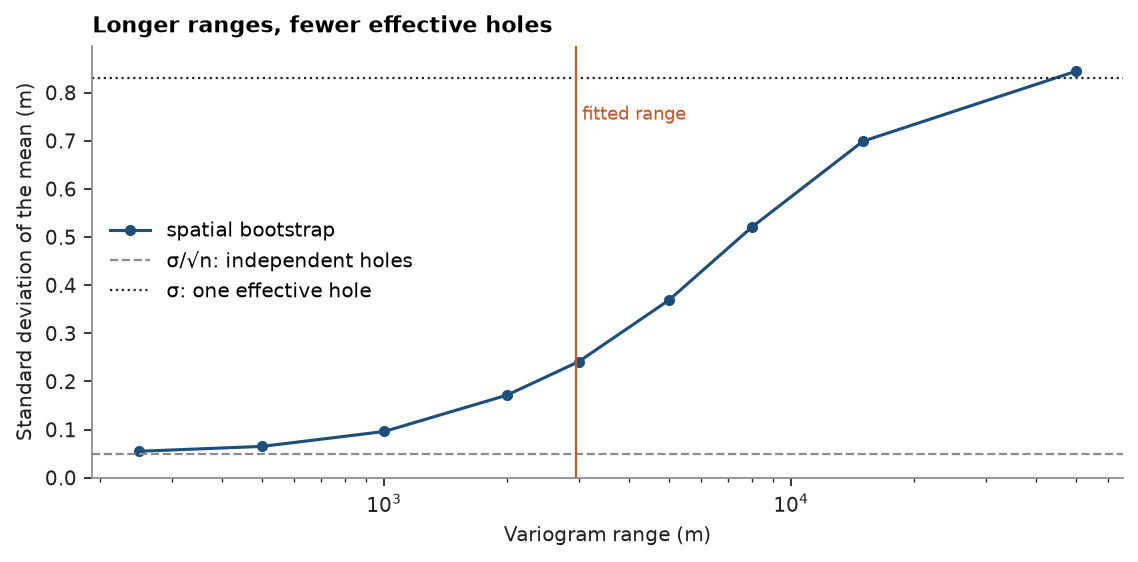
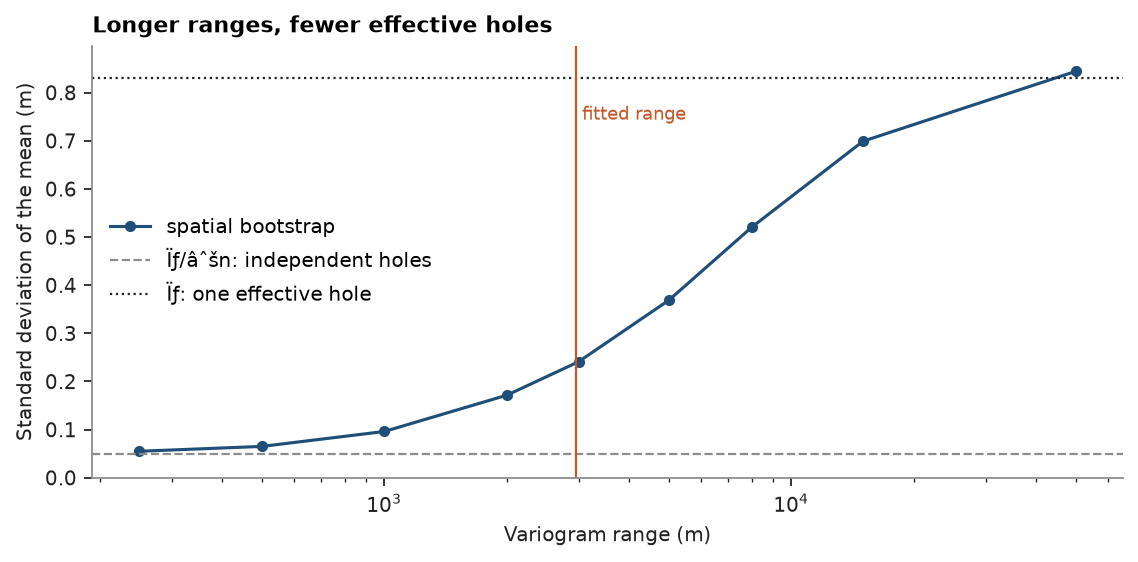
docs(examples): tidy the spatial bootstrap page

Changed region(s): [[0.0923, 0.3932, 0.3998, 0.5445]]

diff --git a/examples/topics/72-spatial-bootstrap/example_72.py b/examples/topics/72-spatial-bootstrap/example_72.py
@@ -2,7 +2,7 @@
 # 72. Spatial bootstrap
 
 A declustered mean is one number from a few hundred holes. How far off could it be? The classical bootstrap
-resamples the holes independently and answers σ/√n, but neighboring holes carry much the same information, so the
+resamples the holes independently and answers Ïƒ/âˆšn, but neighboring holes carry much the same information, so the
 true uncertainty is larger. `cs.spatial_bootstrap` resamples with the spatial correlation: each realization draws
 unconditional Gaussian values at the holes with the normal-score variogram, turns them into ranks, and reads the ranks
 through the declustered distribution of the data. Nearby holes then get similar draws and the resampled mean spreads
@@ -45,15 +45,16 @@ variogram = cs.Variogram(
 )
 print(variogram)
 
-independent = cs.spatial_bootstrap(holes, "THICKNESS_M", cs.Variogram([], nugget=1.0), weights=weights, n=1000)
+nugget = cs.Variogram([], nugget=1.0)
+independent = cs.spatial_bootstrap(holes, "THICKNESS_M", nugget, weights=weights, n=1000)
 spatial = cs.spatial_bootstrap(holes, "THICKNESS_M", variogram, weights=weights, n=1000)
 for name, table in (("independent", independent), ("spatial", spatial)):
     print(f"{name:>11}: standard deviation of the mean {np.std(table['mean']):.3f} m")
-print(f"        σ/√n: {sd / np.sqrt(len(holes)):.3f} m")
+print(f"        Ïƒ/âˆšn: {sd / np.sqrt(len(holes)):.3f} m")
 
 # %% [markdown]
-# A pure-nugget variogram makes every draw independent, which is the classical bootstrap: its spread matches σ/√n.
-# With the fitted variogram, whose range is about 3 km over an 11 × 7 km lease, the spread is four times wider:
+# A pure-nugget variogram makes every draw independent, which is the classical bootstrap: its spread matches Ïƒ/âˆšn.
+# With the fitted variogram, whose range is about 3 km over an 11 Ã— 7 km lease, the spread is four times wider:
 
 # %%
 bins = np.linspace(1.3, 2.5, 49)
@@ -69,7 +70,7 @@ save(fig, "means")
 # %% [markdown]
 # ## Range and effective number of holes
 #
-# The spread grows with the range. Written as an effective number of independent holes, (σ / spread)², the 295
+# The spread grows with the range. Written as an effective number of independent holes, (Ïƒ / spread)Â², the 295
 # holes count as about a dozen at the fitted range of 3 km, and as one once the range spans the whole lease.
 
 # %%
@@ -89,8 +90,8 @@ for r, s in zip(ranges, spreads):
 
 fig, ax = plt.subplots(figsize=(7, 3.4), layout="constrained")
 ax.semilogx(ranges, spreads, "o-", color=ACCENT, lw=1.4, ms=4, label="spatial bootstrap")
-ax.axhline(sd / np.sqrt(len(holes)), color=GRAY, ls="--", lw=1, label="σ/√n: independent holes")
-ax.axhline(sd, color=INK, ls=":", lw=1, label="σ: one effective hole")
+ax.axhline(sd / np.sqrt(len(holes)), color=GRAY, ls="--", lw=1, label="Ïƒ/âˆšn: independent holes")
+ax.axhline(sd, color=INK, ls=":", lw=1, label="Ïƒ: one effective hole")
 ax.axvline(structure.range, color=HIGHLIGHT, lw=1)
 ax.text(structure.range, sd * 0.93, " fitted range", color=HIGHLIGHT, va="top", fontsize=8)
 ax.set(
@@ -105,15 +106,15 @@ save(fig, "ranges")
 # %% [markdown]
 # ## Tonnage uncertainty
 #
-# The lease covers the cells flagged `INSIDE`; at 1.4 t/m³ each realization of the mean thickness gives a tonnage.
+# The lease covers the cells flagged `INSIDE`; at 1.4 t/mÂ³ each realization of the mean thickness gives a tonnage.
 # The table also returns quantiles and proportions above cutoffs per realization, here the share of the seam thicker
 # than 2 m, the minimum mining height.
 
 # %%
 area = np.sum(grid["INSIDE"] == 1) * 100.0 * 100.0
 density = 1.4
-for name, v in (("independent", cs.Variogram([], nugget=1.0)), ("spatial", variogram)):
-    table = cs.spatial_bootstrap(holes, "THICKNESS_M", v, weights=weights, n=1000, quantiles=[0.5], cutoffs=[2.0])
+for name, v in (("independent", nugget), ("spatial", variogram)):
+    table = cs.spatial_bootstrap(holes, "THICKNESS_M", v, weights=weights, n=1000, cutoffs=[2.0])
     tonnes = np.asarray(table["mean"]) * area * density / 1e6
     p10, p50, p90 = np.quantile(tonnes, [0.1, 0.5, 0.9])
     above = np.quantile(table["above 2"], [0.1, 0.9])
@@ -123,6 +124,6 @@ for name, v in (("independent", cs.Variogram([], nugget=1.0)), ("spatial", vario
     )
 
 # %% [markdown]
-# Independent resampling promises the tonnage within a few percent; with the spatial correlation the P10–P90 range
+# Independent resampling promises the tonnage within a few percent; with the spatial correlation the P10â€“P90 range
 # is four times wider. That is the uncertainty in the global mean from the holes alone, before any estimate or
 # simulation: a lower bound on what a resource can claim, and a guide to whether more holes pay.

diff --git a/examples/topics/72-spatial-bootstrap/README.md b/examples/topics/72-spatial-bootstrap/README.md
@@ -1,7 +1,7 @@
 # 72. Spatial bootstrap
 
 A declustered mean is one number from a few hundred holes. How far off could it be? The classical bootstrap
-resamples the holes independently and answers σ/√n, but neighboring holes carry much the same information, so the
+resamples the holes independently and answers Ïƒ/âˆšn, but neighboring holes carry much the same information, so the
 true uncertainty is larger. `cs.spatial_bootstrap` resamples with the spatial correlation: each realization draws
 unconditional Gaussian values at the holes with the normal-score variogram, turns them into ranks, and reads the ranks
 through the declustered distribution of the data. Nearby holes then get similar draws and the resampled mean spreads
@@ -46,11 +46,12 @@ variogram = cs.Variogram(
 )
 print(variogram)
 
-independent = cs.spatial_bootstrap(holes, "THICKNESS_M", cs.Variogram([], nugget=1.0), weights=weights, n=1000)
+nugget = cs.Variogram([], nugget=1.0)
+independent = cs.spatial_bootstrap(holes, "THICKNESS_M", nugget, weights=weights, n=1000)
 spatial = cs.spatial_bootstrap(holes, "THICKNESS_M", variogram, weights=weights, n=1000)
 for name, table in (("independent", independent), ("spatial", spatial)):
     print(f"{name:>11}: standard deviation of the mean {np.std(table['mean']):.3f} m")
-print(f"        σ/√n: {sd / np.sqrt(len(holes)):.3f} m")
+print(f"        Ïƒ/âˆšn: {sd / np.sqrt(len(holes)):.3f} m")
 ```
 
 </details>
@@ -59,11 +60,11 @@ print(f"        σ/√n: {sd / np.sqrt(len(holes)):.3f} m")
 Variogram(nugget=0.1952192065899283, structures=[Structure("spherical", sill=0.8047807934100717, range=2960.08750426967)], rotation=(0.0, 0.0, 0.0), ratios=(1.0, 1.0))
 independent: standard deviation of the mean 0.048 m
     spatial: standard deviation of the mean 0.206 m
-        σ/√n: 0.048 m
+        Ïƒ/âˆšn: 0.048 m
 ```
 
-A pure-nugget variogram makes every draw independent, which is the classical bootstrap: its spread matches σ/√n.
-With the fitted variogram, whose range is about 3 km over an 11 × 7 km lease, the spread is four times wider:
+A pure-nugget variogram makes every draw independent, which is the classical bootstrap: its spread matches Ïƒ/âˆšn.
+With the fitted variogram, whose range is about 3 km over an 11 Ã— 7 km lease, the spread is four times wider:
 
 <details><summary>Python</summary>
 
@@ -85,7 +86,7 @@ save(fig, "means")
 
 ## Range and effective number of holes
 
-The spread grows with the range. Written as an effective number of independent holes, (σ / spread)², the 295
+The spread grows with the range. Written as an effective number of independent holes, (Ïƒ / spread)Â², the 295
 holes count as about a dozen at the fitted range of 3 km, and as one once the range spans the whole lease.
 
 <details><summary>Python</summary>
@@ -107,8 +108,8 @@ for r, s in zip(ranges, spreads):
 
 fig, ax = plt.subplots(figsize=(7, 3.4), layout="constrained")
 ax.semilogx(ranges, spreads, "o-", color=ACCENT, lw=1.4, ms=4, label="spatial bootstrap")
-ax.axhline(sd / np.sqrt(len(holes)), color=GRAY, ls="--", lw=1, label="σ/√n: independent holes")
-ax.axhline(sd, color=INK, ls=":", lw=1, label="σ: one effective hole")
+ax.axhline(sd / np.sqrt(len(holes)), color=GRAY, ls="--", lw=1, label="Ïƒ/âˆšn: independent holes")
+ax.axhline(sd, color=INK, ls=":", lw=1, label="Ïƒ: one effective hole")
 ax.axvline(structure.range, color=HIGHLIGHT, lw=1)
 ax.text(structure.range, sd * 0.93, " fitted range", color=HIGHLIGHT, va="top", fontsize=8)
 ax.set(
@@ -139,7 +140,7 @@ range   50000 m: spread 0.844 m, effective holes 1
 
 ## Tonnage uncertainty
 
-The lease covers the cells flagged `INSIDE`; at 1.4 t/m³ each realization of the mean thickness gives a tonnage.
+The lease covers the cells flagged `INSIDE`; at 1.4 t/mÂ³ each realization of the mean thickness gives a tonnage.
 The table also returns quantiles and proportions above cutoffs per realization, here the share of the seam thicker
 than 2 m, the minimum mining height.
 
@@ -148,8 +149,8 @@ than 2 m, the minimum mining height.
 ```python
 area = np.sum(grid["INSIDE"] == 1) * 100.0 * 100.0
 density = 1.4
-for name, v in (("independent", cs.Variogram([], nugget=1.0)), ("spatial", variogram)):
-    table = cs.spatial_bootstrap(holes, "THICKNESS_M", v, weights=weights, n=1000, quantiles=[0.5], cutoffs=[2.0])
+for name, v in (("independent", nugget), ("spatial", variogram)):
+    table = cs.spatial_bootstrap(holes, "THICKNESS_M", v, weights=weights, n=1000, cutoffs=[2.0])
     tonnes = np.asarray(table["mean"]) * area * density / 1e6
     p10, p50, p90 = np.quantile(tonnes, [0.1, 0.5, 0.9])
     above = np.quantile(table["above 2"], [0.1, 0.9])
@@ -166,7 +167,7 @@ independent: P10 185 Mt, P50 191 Mt, P90 198 Mt; thicker than 2 m 34% to 41%
     spatial: P10 167 Mt, P50 190 Mt, P90 219 Mt; thicker than 2 m 25% to 50%
 ```
 
-Independent resampling promises the tonnage within a few percent; with the spatial correlation the P10–P90 range
+Independent resampling promises the tonnage within a few percent; with the spatial correlation the P10â€“P90 range
 is four times wider. That is the uncertainty in the global mean from the holes alone, before any estimate or
 simulation: a lower bound on what a resource can claim, and a guide to whether more holes pay.
 
